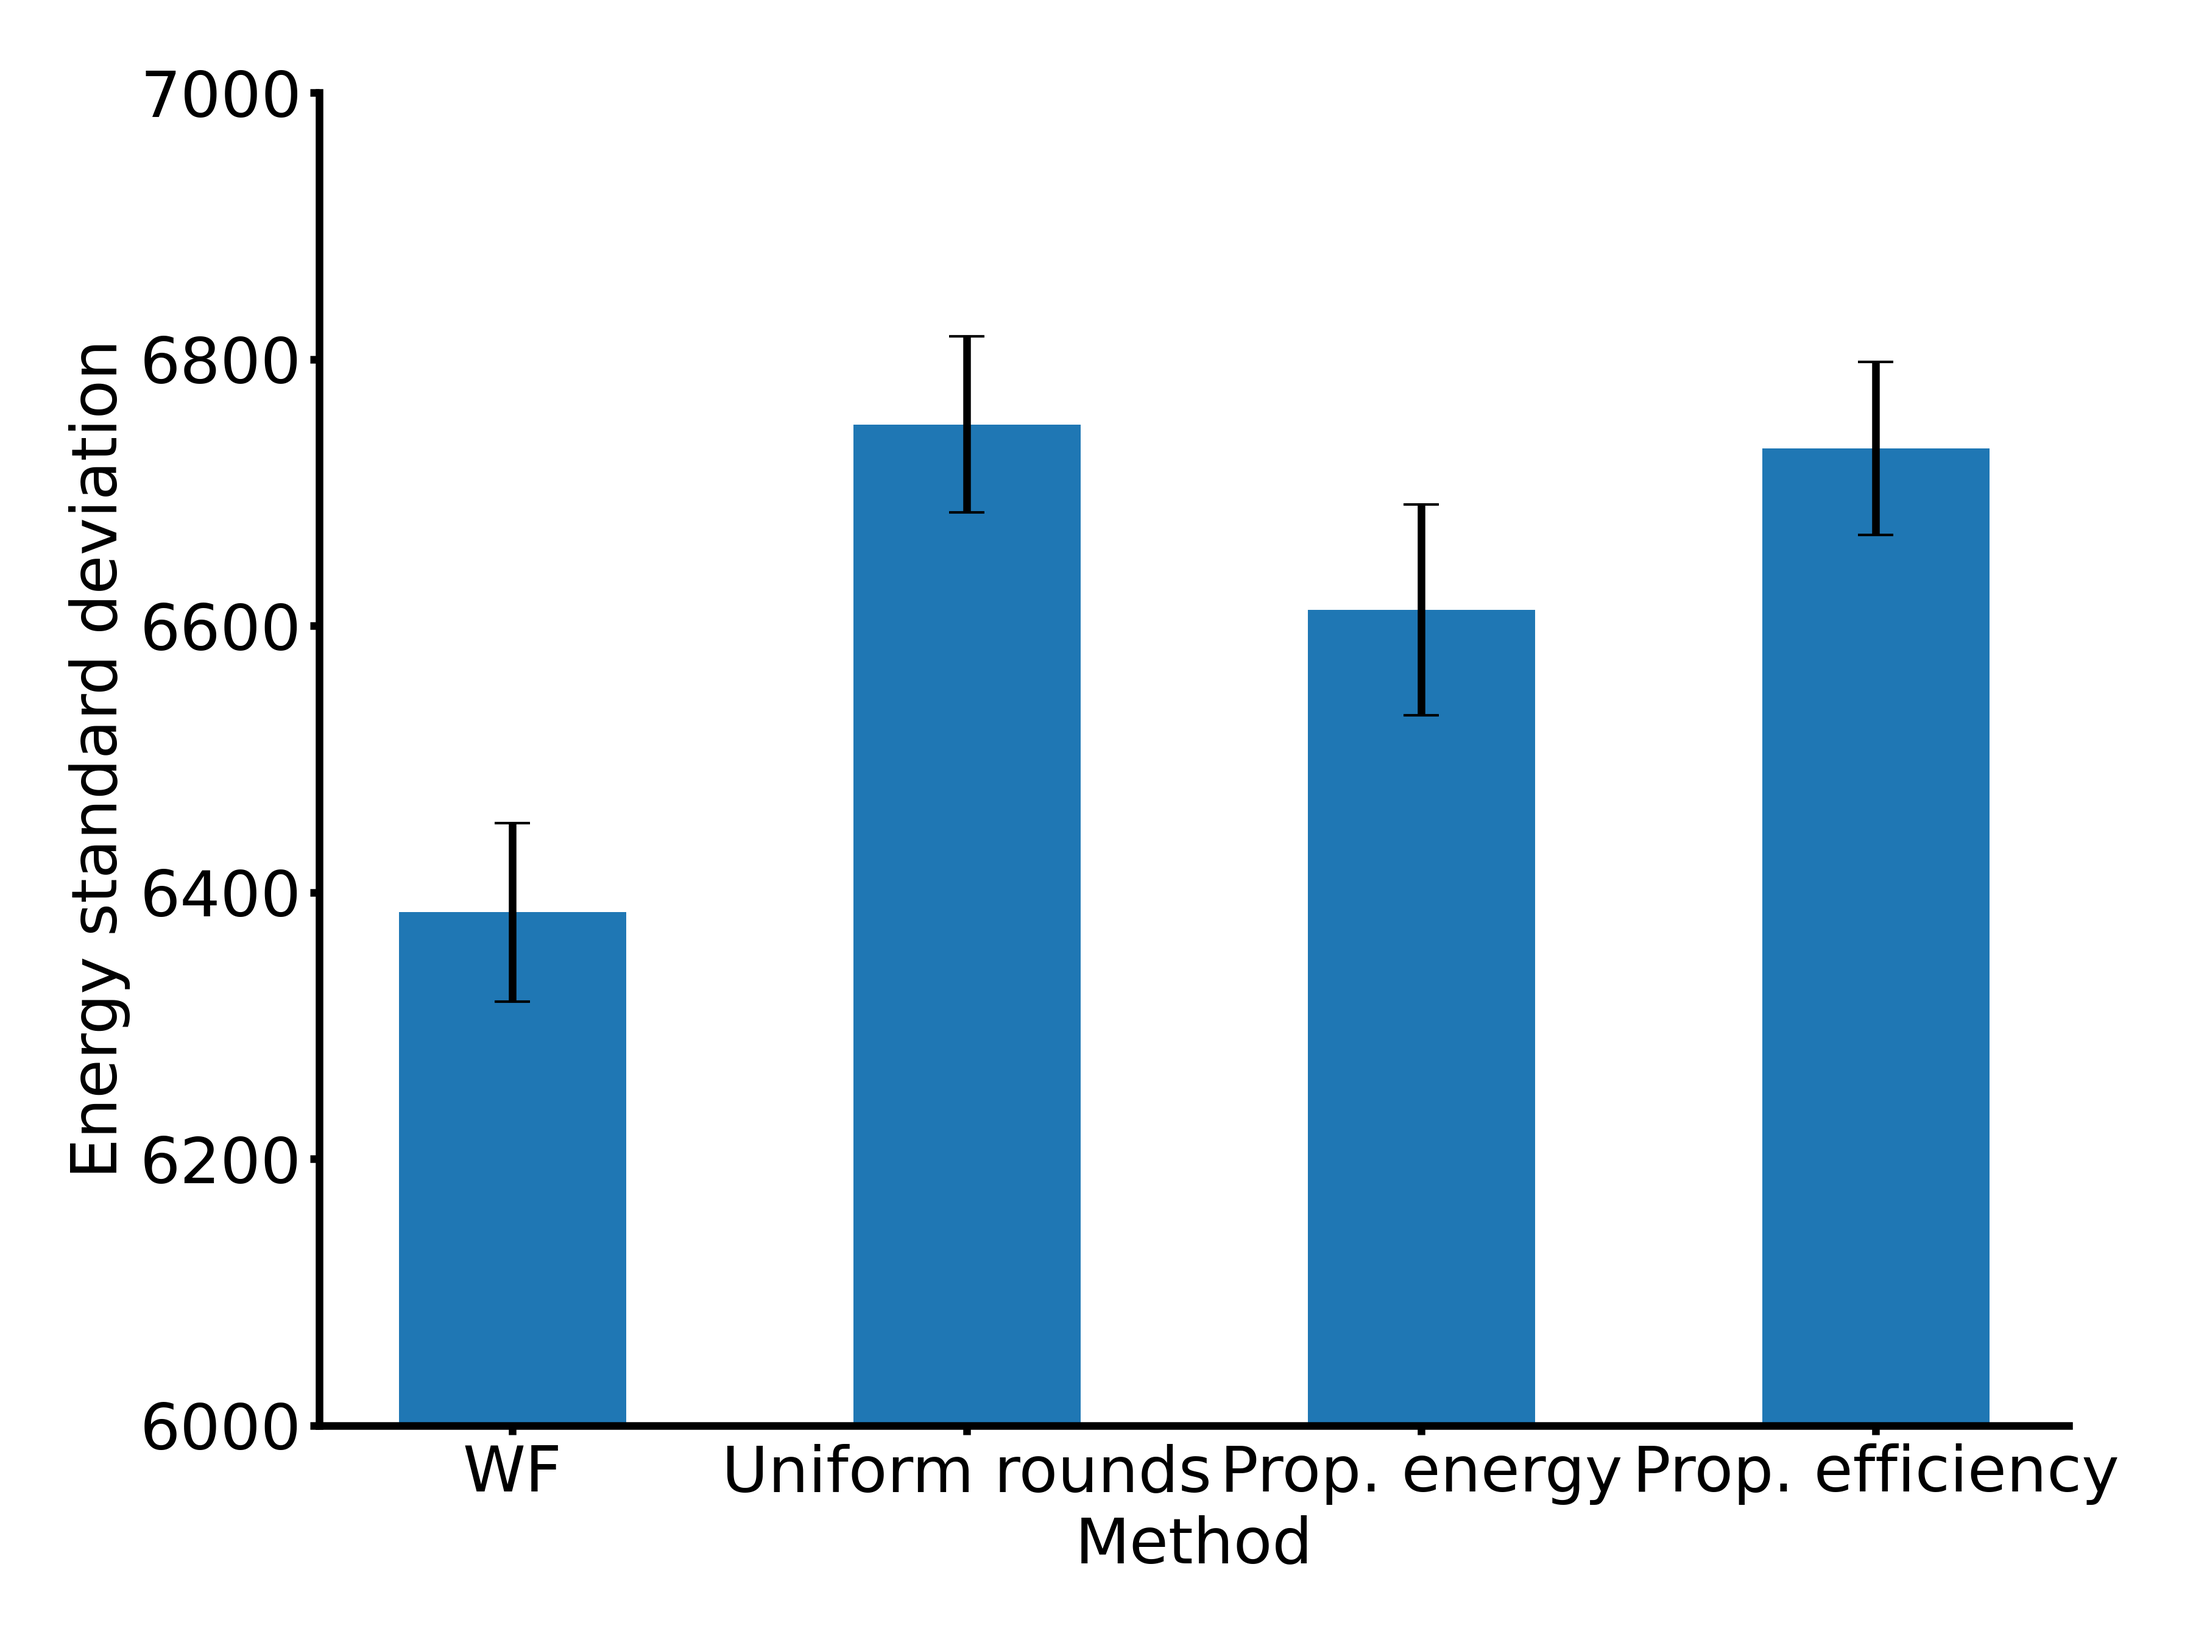
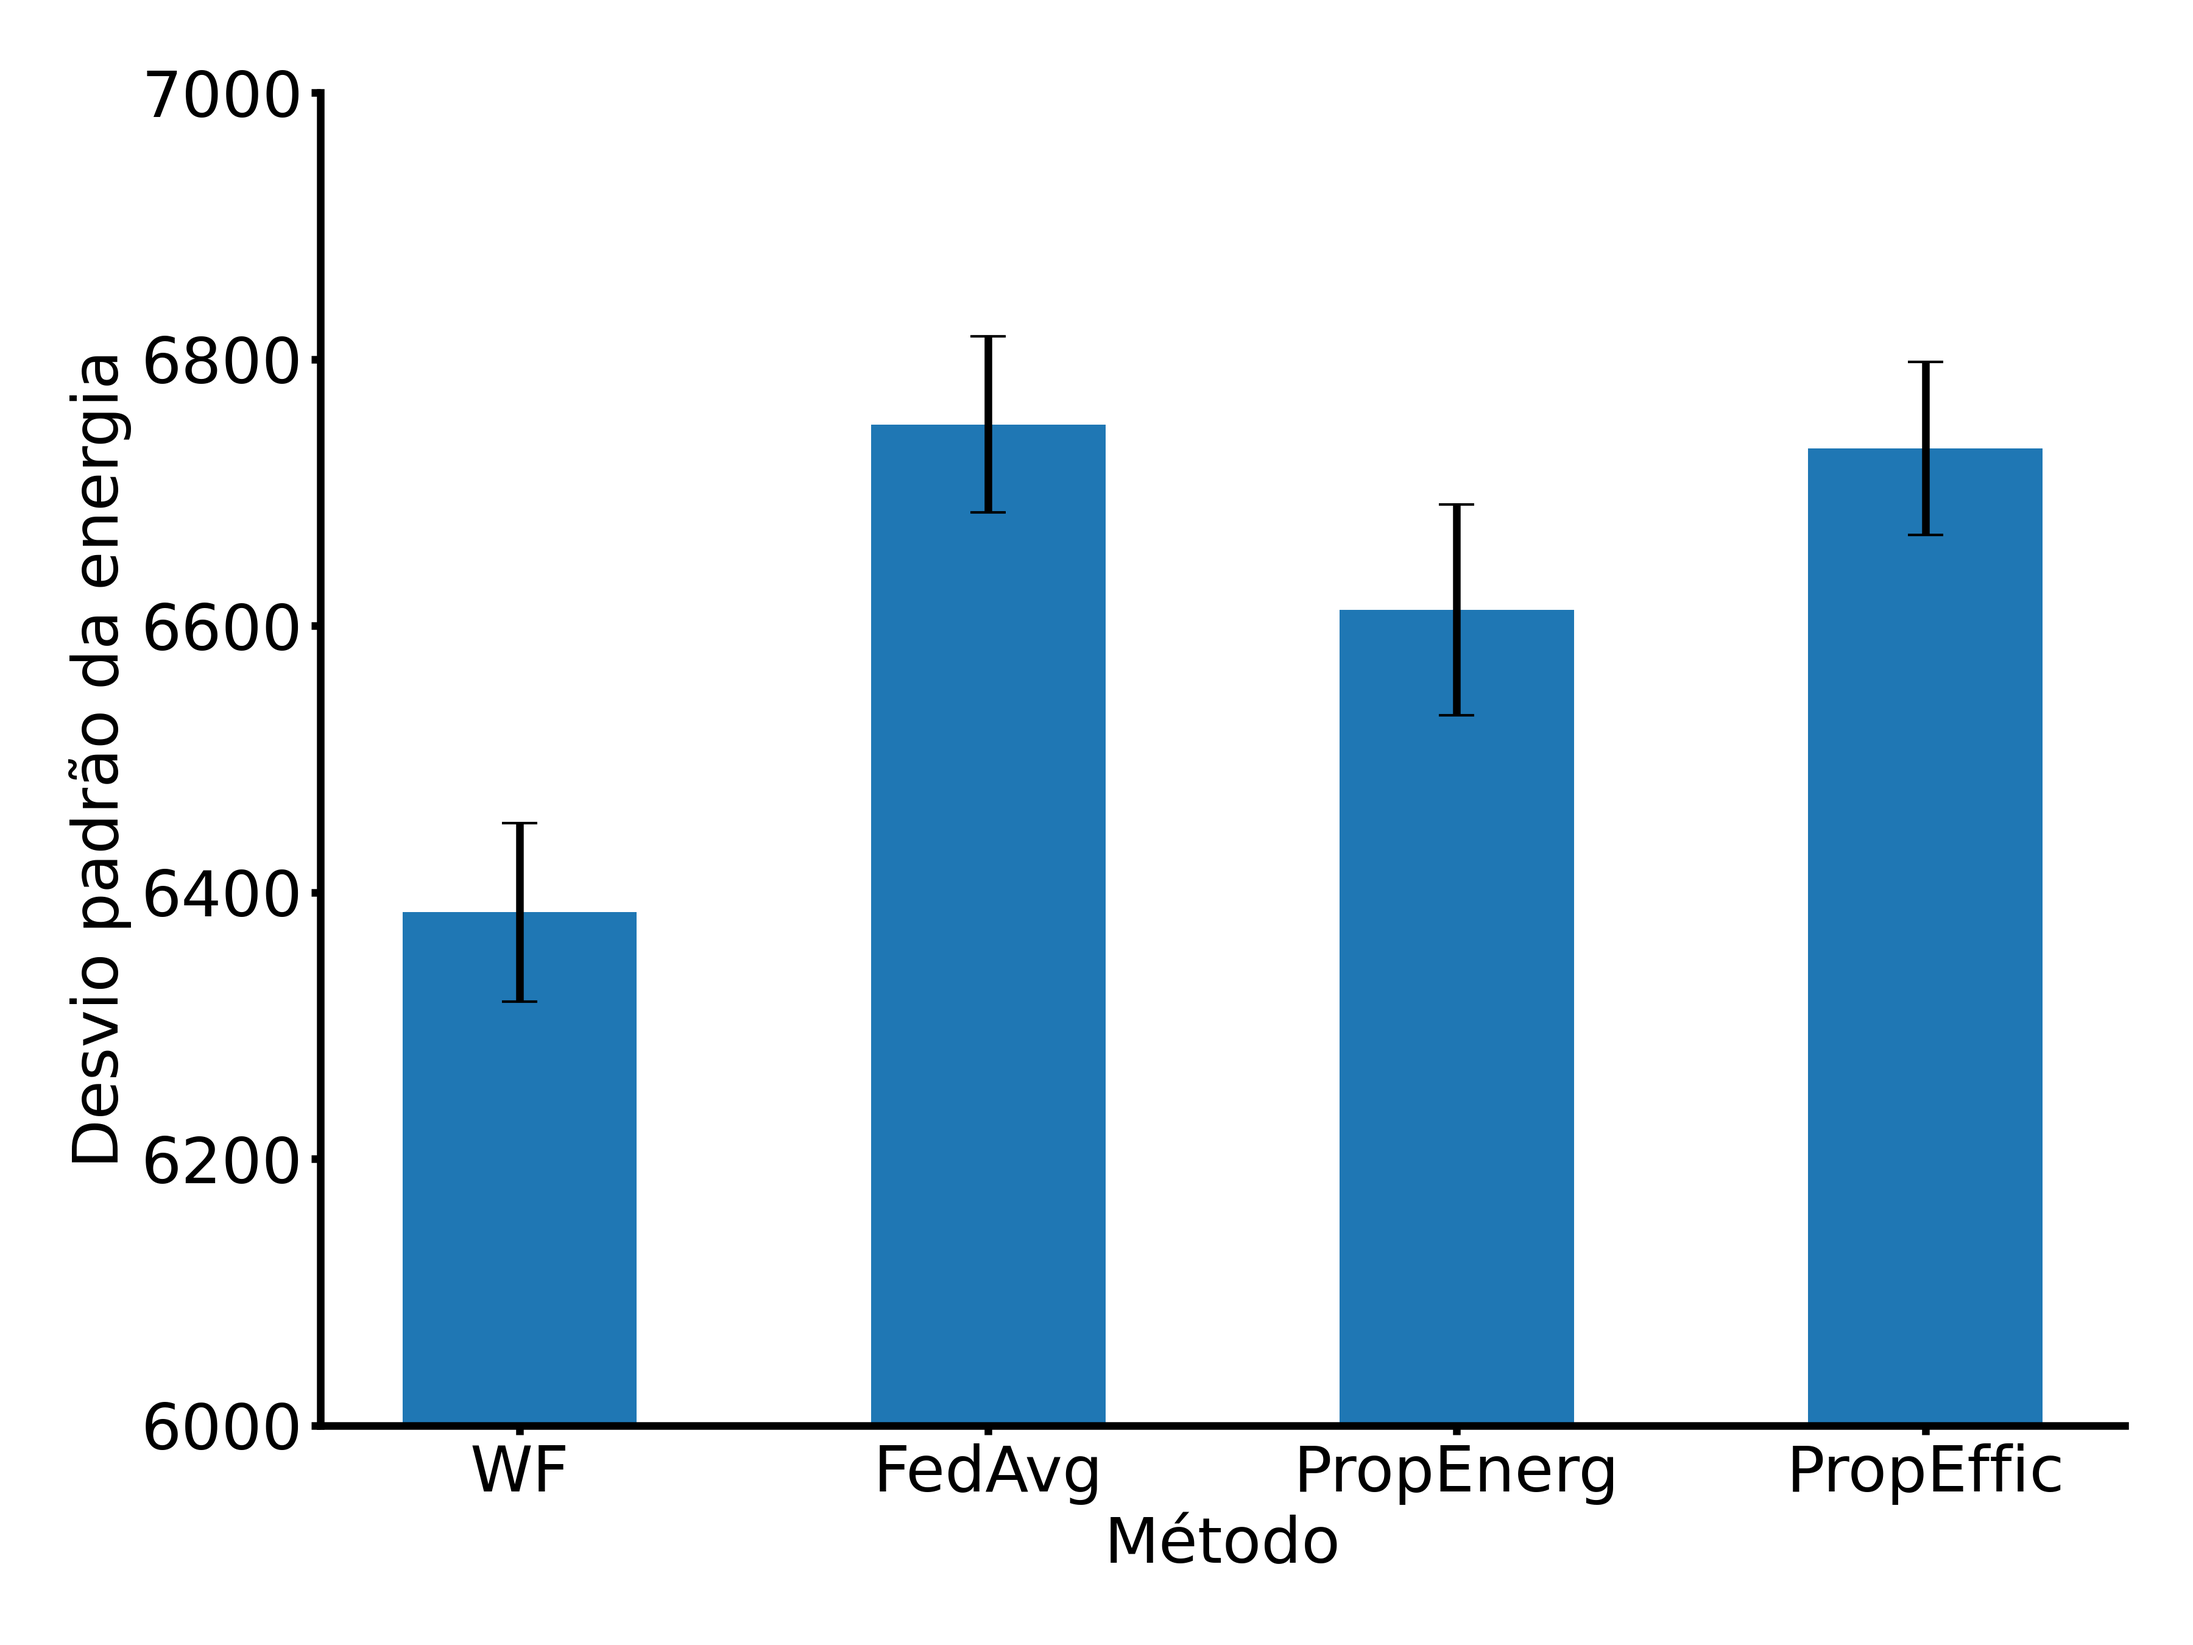
Gráficos em PT

diff --git a/plots/plot_solver_time.py b/plots/plot_solver_time.py
@@ -4,7 +4,7 @@ import numpy as np
 # Use your custom style
 plt.style.use('~/guiaraujo.mplstyle')
 
-solvers = ["WF","Uniform rounds","Prop. energy","Prop. efficiency"]
+solvers = ["WF","FedAvg","PropEnerg","PropEffic"]
 times_soc_10_to_40 = [1565, 87, 97, 116]
 times_soc_10_to_40_err = [30, 1, 1, 1]
 
@@ -22,8 +22,8 @@ rects = ax.bar(
 
 ax.set_xticks(x)
 ax.set_xticklabels(solvers)
-ax.set_xlabel("Method")
-ax.set_ylabel("Solving time (microseconds)")
+ax.set_xlabel("Método")
+ax.set_ylabel("Tempo para solução (microssegundos)")
 #ax.set_ylim(4000,5000)
 
 plt.tight_layout()

diff --git a/plots/plot_energy_stdev.py b/plots/plot_energy_stdev.py
@@ -4,7 +4,7 @@ import numpy as np
 # Use your custom style
 plt.style.use('~/guiaraujo.mplstyle')
 
-solvers = ["WF","Uniform rounds","Prop. energy","Prop. efficiency"]
+solvers = ["WF","FedAvg","PropEnerg","PropEffic"]
 stdev_soc_10_to_40 = [6385,6751,6612,6733]
 stdev_soc_10_to_40_err = [67, 66, 79, 65]
 
@@ -22,8 +22,8 @@ rects = ax.bar(
 
 ax.set_xticks(x)
 ax.set_xticklabels(solvers)
-ax.set_xlabel("Method")
-ax.set_ylabel("Energy standard deviation")
+ax.set_xlabel("Método")
+ax.set_ylabel("Desvio padrão da energia")
 ax.set_ylim(6000,7000)
 
 plt.tight_layout()

diff --git a/plots/plot_round_time.py b/plots/plot_round_time.py
@@ -4,7 +4,7 @@ import numpy as np
 # Use your custom style
 plt.style.use('~/guiaraujo.mplstyle')
 
-solvers = ["WF","Uniform rounds","Prop. energy","Prop. efficiency"]
+solvers = ["WF","FedAvg","PropEnerg","PropEffic"]
 times_10_to_40 = [23.6, 12.91, 17.9, 14.7]
 times_10_to_40_err = [0.1, 0.04, 0.2, 0.1]
 
@@ -22,8 +22,8 @@ rects = ax.bar(
 
 ax.set_xticks(x)
 ax.set_xticklabels(solvers)
-ax.set_xlabel("Method")
-ax.set_ylabel("Round time (seconds)")
+ax.set_xlabel("Método")
+ax.set_ylabel("Tempo da rodada (s)")
 #ax.set_ylim(4000,5000)
 
 plt.tight_layout()

diff --git a/plots/plot_drop_factor.py b/plots/plot_drop_factor.py
@@ -4,7 +4,7 @@ import numpy as np
 # Use your custom style
 plt.style.use('~/guiaraujo.mplstyle')
 
-solvers = ["WF","Uniform rounds","Prop. energy","Prop. efficiency"]
+solvers = ["WF","FedAvg","PropEnerg","PropEffic"]
 drop_factor_10_to_40 = [1.53, 1.79, 1.80, 1.79]
 drop_factor_10_to_40_err = [0.02, 0.01, 0.01, 0.01]
 
@@ -21,8 +21,8 @@ rects = ax.bar(
 
 ax.set_xticks(x)
 ax.set_xticklabels(solvers)
-ax.set_xlabel("Method")
-ax.set_ylabel("Energy drop factor (%)")
+ax.set_xlabel("Método")
+ax.set_ylabel("FQ (%)")
 ax.set_ylim(1,2)
 
 plt.tight_layout()
